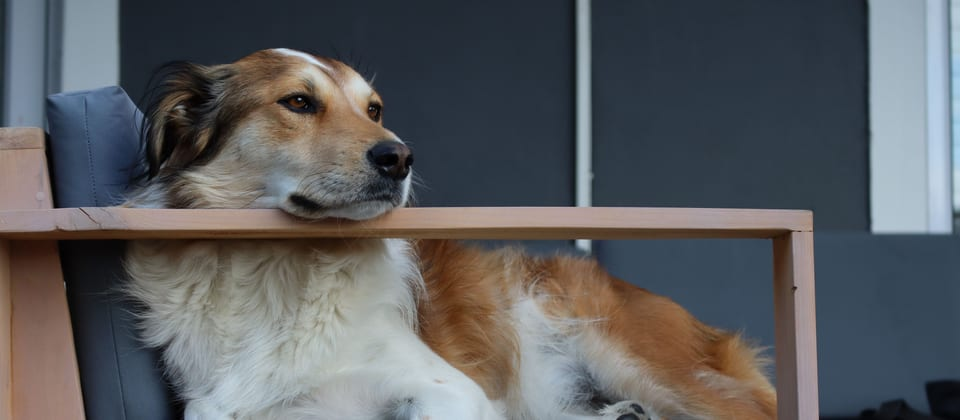
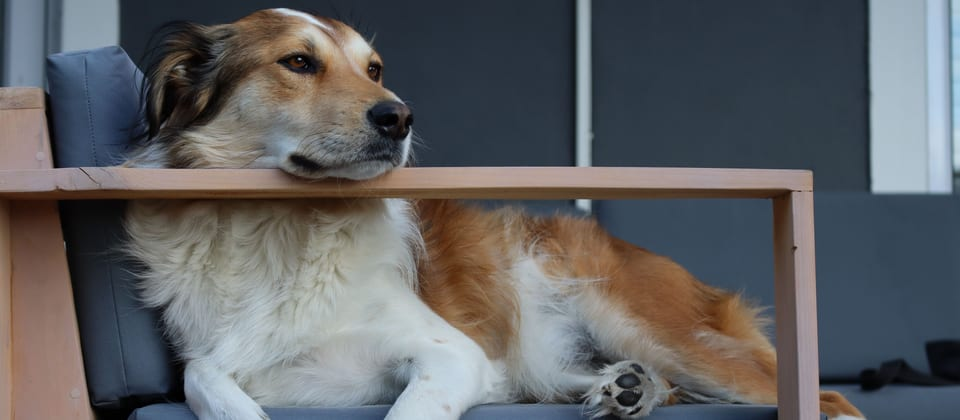
fix: reenquadra foto do quiz (headroom acima da cabeça) + remove badge 'Método Focão'
- quiz-hero.jpg: novo recorte com espaço acima da cabeça (antes cortava o topo no mobile)
- remove o bloco 'Método Focão / Baseado em comportamento canino...' (tinha mais um placeholder 'foto')

diff --git a/public/quiz-ansiedade.html b/public/quiz-ansiedade.html
@@ -204,9 +204,6 @@ document.addEventListener('click',function(ev){
       + chip('2 minutos')+chip('Sem julgamento')+chip('Sem punição')+'</div>'
       +'<button type="button" class="q-cta" onclick="Q.start()" style="position:relative;overflow:hidden;width:100%;margin-top:26px;background:#0E5A43;color:#fff;border:none;border-radius:16px;padding:19px 24px;font-family:\'Manrope\';font-size:17px;font-weight:700;letter-spacing:-.01em;cursor:pointer;box-shadow:0 16px 30px -14px rgba(14,90,67,.65);transition:transform .18s,background .18s;">'
       +'<span style="position:absolute;top:0;left:0;width:35%;height:100%;background:linear-gradient(100deg,transparent,rgba(255,255,255,.28),transparent);animation:fcsheen 4.5s ease-in-out infinite;"></span>Iniciar o diagnóstico →</button>'
-      +'<div style="display:flex;align-items:center;gap:12px;margin-top:24px;padding-top:22px;border-top:1px solid rgba(20,33,27,.08);">'
-      +'<div style="width:42px;height:42px;border-radius:50%;flex:none;background:linear-gradient(150deg,#E7F0EA,#D2E3D8);border:1px solid #CFE0D4;display:grid;place-items:center;"><span style="font-family:ui-monospace,monospace;font-size:8px;color:#5DA585;letter-spacing:.04em;">foto</span></div>'
-      +'<div><div style="font-size:13.5px;font-weight:700;color:#1B2A22;">Método Focão</div><div style="font-size:12.5px;color:#6E756B;line-height:1.4;">Baseado em comportamento canino aplicado — sem grito, sem coleira de choque.</div></div></div>'
       +'</section>';
   }
   function chip(t){return '<span style="display:inline-flex;align-items:center;gap:7px;padding:8px 13px;border-radius:11px;background:#fff;border:1px solid #E7E3D9;font-size:13px;font-weight:600;color:#3E463F;"><span style="width:6px;height:6px;border-radius:50%;background:#5DA585;"></span>'+t+'</span>';}
